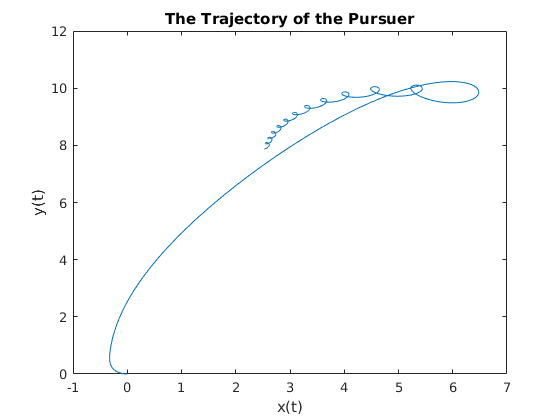
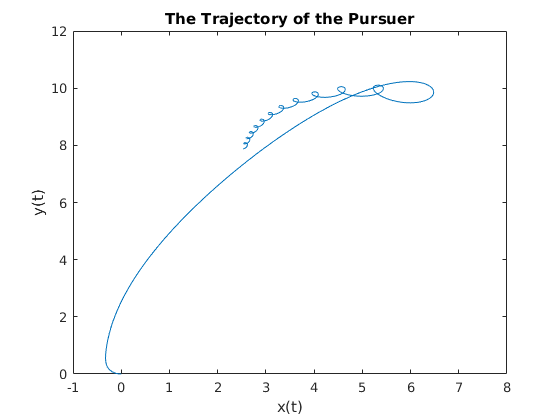
a2: Rectify q5a.

diff --git a/a2/q5/q5a.m b/a2/q5/q5a.m
@@ -32,6 +32,7 @@ end;
 % plot the trajectory of the pursuer
 figure(2);
 plot(y(:, 1), y(:, 2));
+axis([-1 8 0 12]);
 title('The Trajectory of the Pursuer');
 xlabel('x(t)'); % x-axis label
 ylabel('y(t)'); % y-axis label
@@ -39,7 +40,17 @@ ylabel('y(t)'); % y-axis label
 % plot the trajectory of the target
 figure(3);
 plot(y(:, 4), y(:, 5));
+axis([-1 8 0 12]);
 title('The Trajectory of the Target');
+xlabel('x(t)'); % x-axis label
+ylabel('y(t)'); % y-axis label
+
+% plot the trajectory of both
+figure(4);
+hold on;
+plot(y(:, 1), y(:, 2));
+plot(y(:, 4), y(:, 5), '--');
+title('The Trajectory of the Pursuer and Target');
 xlabel('x(t)'); % x-axis label
 ylabel('y(t)'); % y-axis label
 
